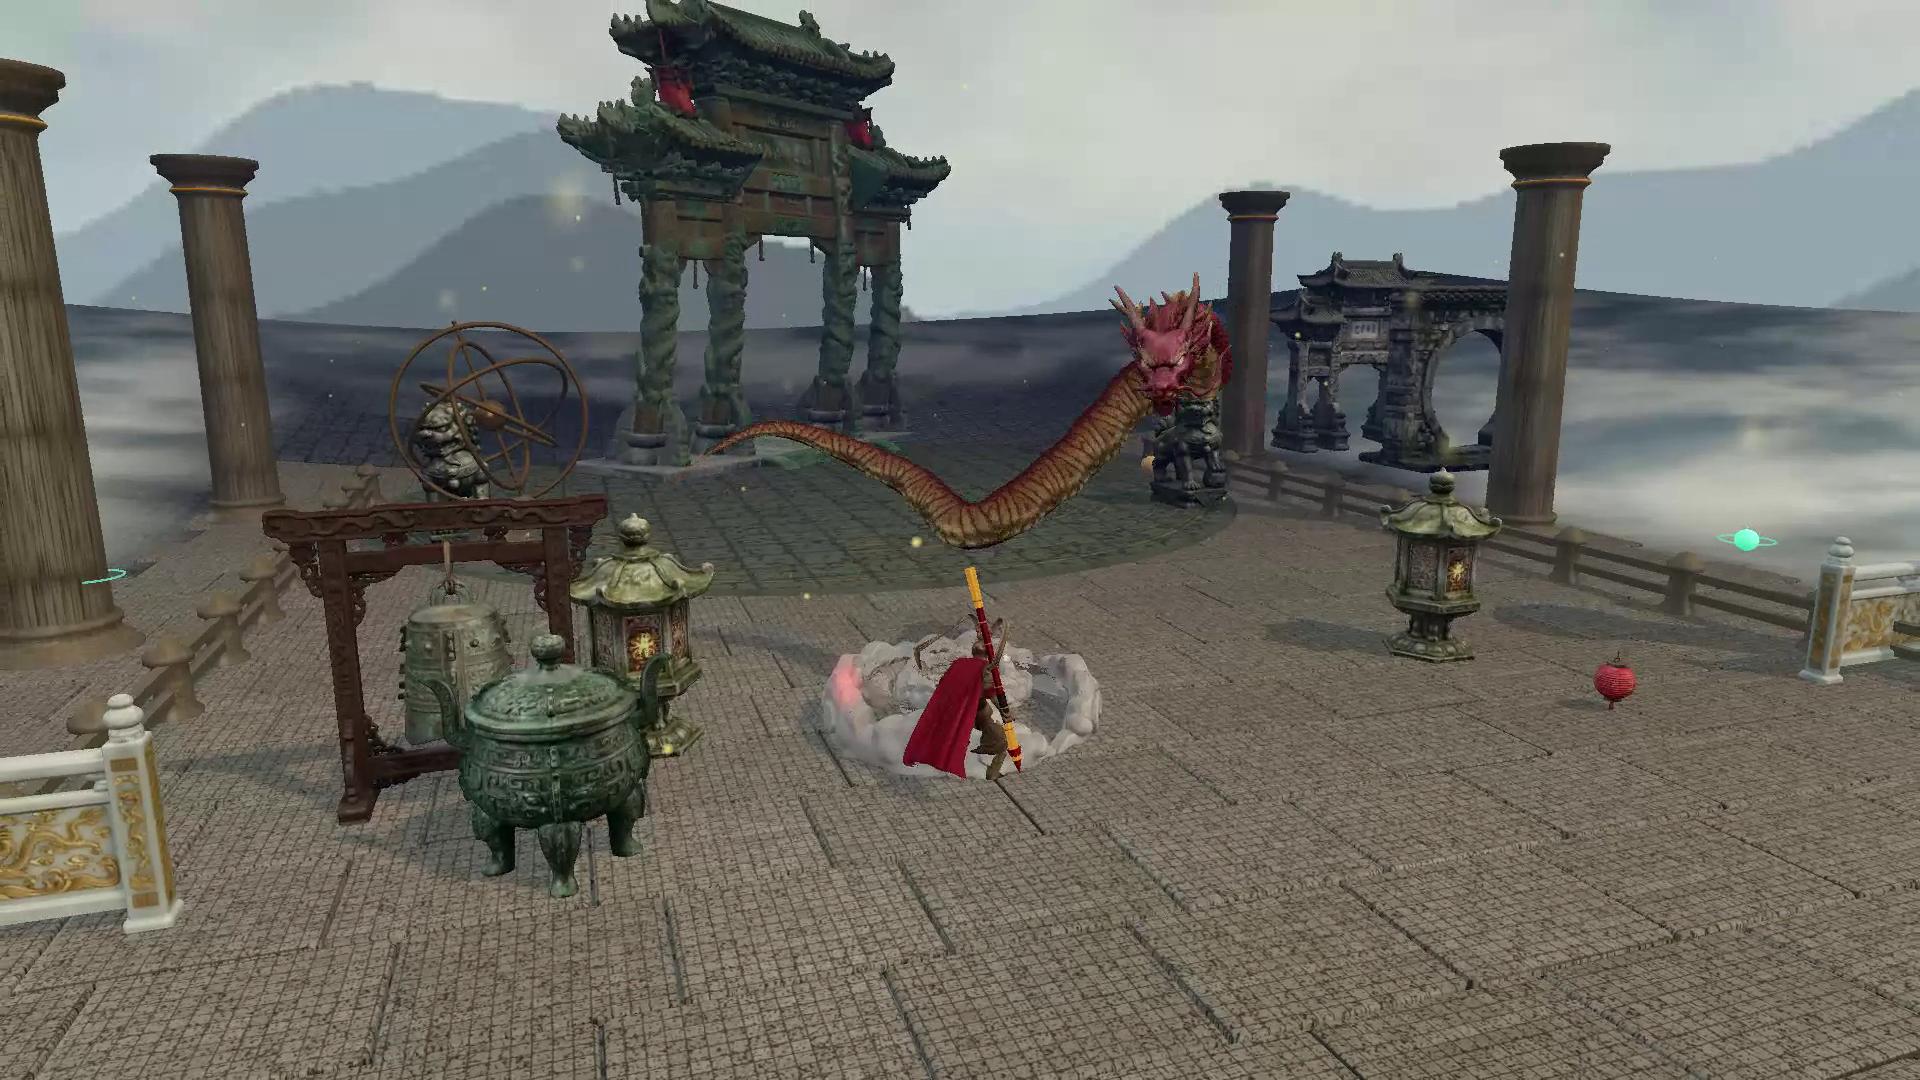
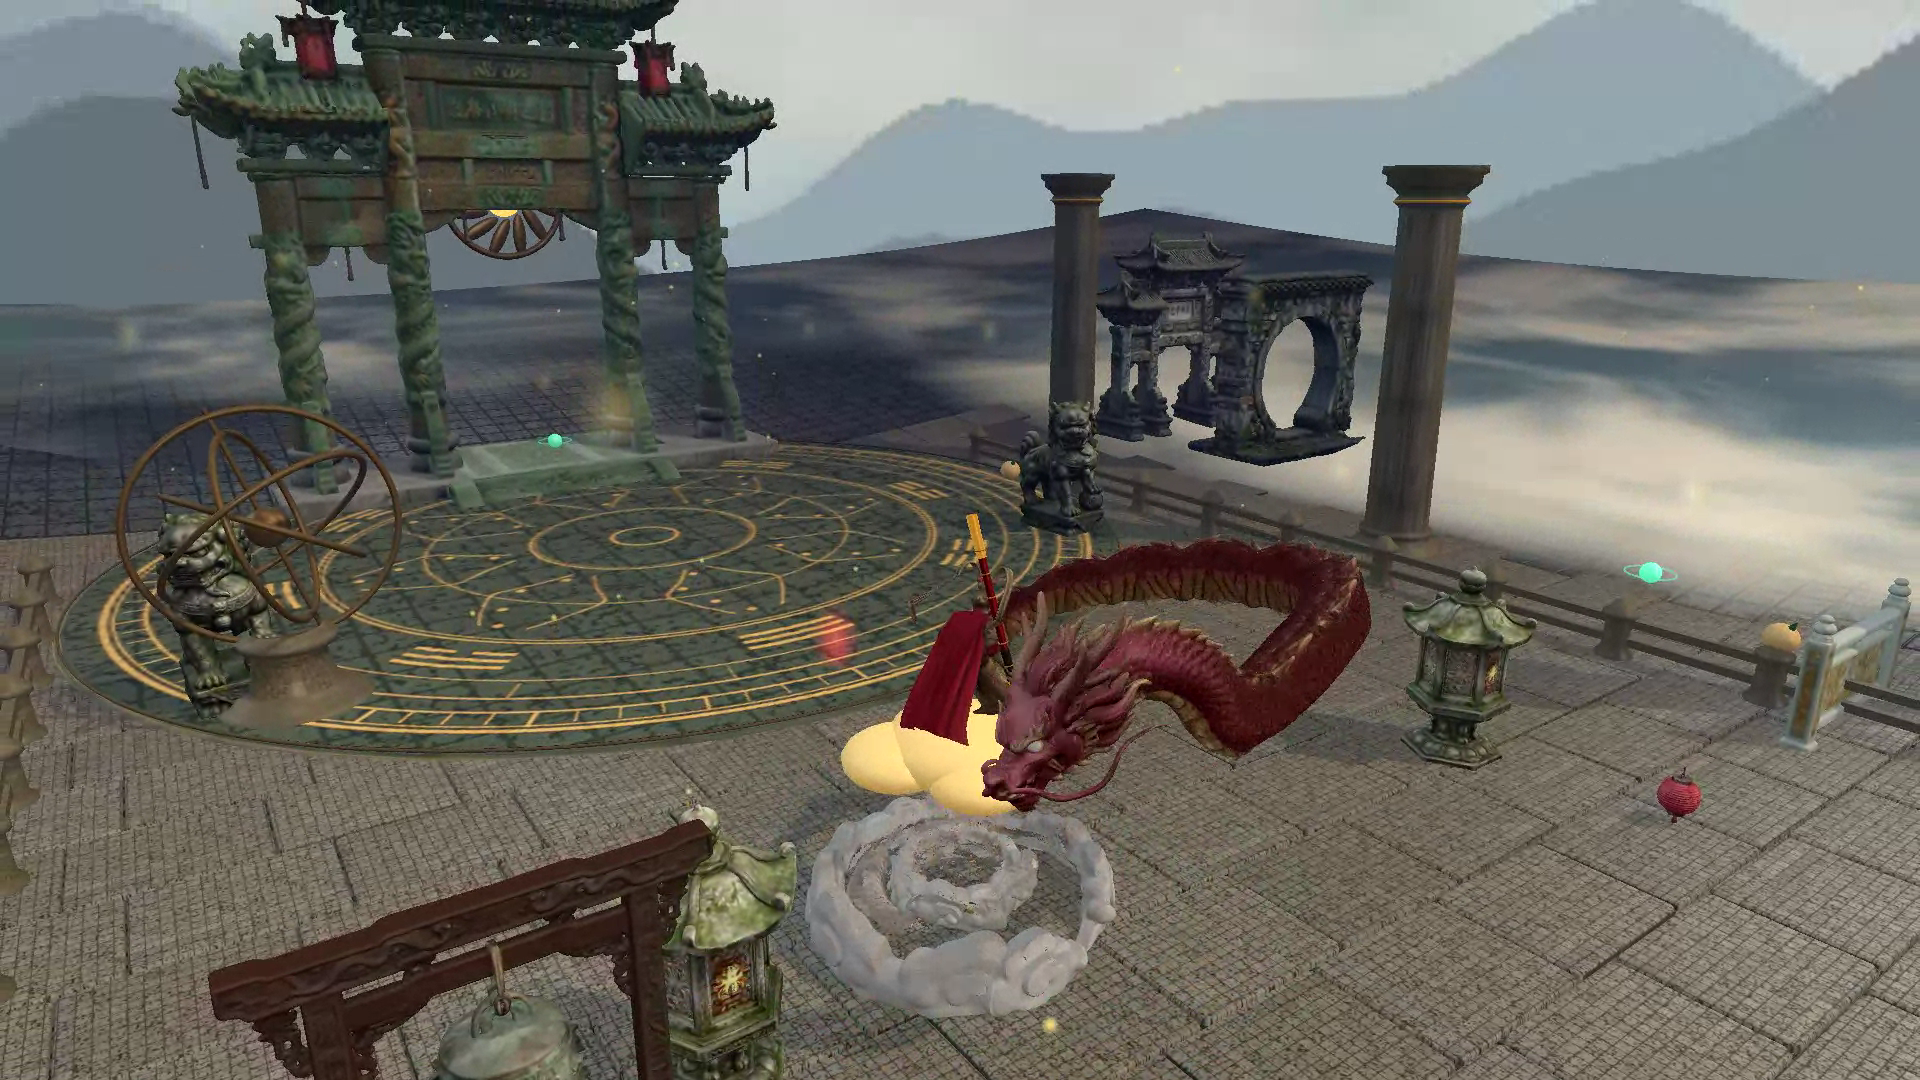
Sync gate playtest, attribution and editable report

diff --git a/source/report/build_wukong_report.py b/source/report/build_wukong_report.py
@@ -107,7 +107,7 @@ for i in range(3):
     d.text((x,710),["花果山 · 水帘苔岩","火焰山 · 立体火墙","南天门 · 龙息决战"][i],font=bold(25),fill=GOLD)
 para(d,(140,820),"人物：按待机姿态的可见蒙皮顶点校准悟空、狼妖与 Boss 尺度；不将骨架空节点计入包围盒。修复金箍棒拖尾在短轨迹/消退时越界。牛魔王通用命名动画经过姿态检查后单独映射。",body(27),WHITE,1320)
 para(d,(140,1080),"战斗：前摇锁定朝向、预警扇区对应攻击方向、落击后提供恢复窗口。狼妖短前摇，骸骨慢挥击，史莱姆压缩起跳；牛魔王冲锋、饕餮地面爆发、天龙扇形龙息。重劈落棍时同步结算命中和音效，接地时产生震波。",body(27),JADE,1320)
-para(d,(140,1350),"场景：保留既有 Aholo 道具与 CC0 地表/植被；缩小遮挡主路的道具。岩壁、桃枝和部分角色新增浅法线。南天门以铜纹星盘、浑仪、石栏衔接云海。烛龙一阶段盘云守门；半血后离开原地云座。飞行躯干延展自原雕刻颈段，保留原 UV、法线和材质。龙首领飞一圈，背尾跟随，回身吐息。嘴部、预警与伤害共用方向。三回仍存在资产风格差异，尚未通过外部审美评估。",body(27),WHITE,1320)
+para(d,(140,1350),"场景：保留既有 Aholo 道具与 CC0 地表/植被；缩小遮挡主路的道具。岩壁、桃枝和部分角色新增浅法线。南天门山门固定于石台，龙升空时悬镜转动，云流分开，台面铜纹显光。颈背和腹甲沿原雕刻同一截面拼接，腰腹的侧摆向尾尖传播。回首吐息沿龙口锁定方向结算。三回仍存在资产风格差异，尚未通过外部审美评估。",body(27),WHITE,1320)
 para(d,(140,1630),"工程：停用并移除 Spark 运行时导入；第一回复用标题页场景；道具分帧加载、章内共享解析与 GPU 资源。释放粒子、Sprite、骨骼、灵蕴、分身、残影、命中与龙息特效；旧章节异步结果不能回流。",body(26),DIM,1320)
 footer(d,6); pages.append(im)
 

diff --git a/source/docs/DRAGON_FLIGHT_QA.md b/source/docs/DRAGON_FLIGHT_QA.md
@@ -2,6 +2,8 @@
 
 从游戏原入口点击披挂上阵，通过两回六根抉择进入南天门。用棍击打到半血后停手，观察空云座、龙首绕行、背尾追随、回首和首个吐息。普通玩家录像使用游戏自带镜头；对照录像仅在绘制时使用固定的世界坐标 (8, 5.8, 15)，看向 (0, 2, 2.6)，垂直视场角 46°。两次战斗独立进行，没有跳关或写入血量。
 
-1920 × 1080 的一次公网普通镜头录制中，从半血前 0.3 秒至首个吐息后 0.5 秒，浏览器动画帧间隔共 1226 个，P95 为 10.0 ms，最大 17.8 ms。实际渲染材质检查：一阶段烛龙、二阶段龙首与飞行脊背引用同一材质实例及颜色、粗糙度和金属度贴图。吐息瞬间龙口水平轴与伤害轴差 0°；实际绘制的扇焰与预警中心线相差小于 0.001°，起点的水平距离小于 0.001 世界单位，扇区半径为 10。记录限于本机本次过渡窗口。
+1920 × 1080 的一次公网普通镜头录制中，从半血前 0.3 秒至首个吐息后 0.5 秒，浏览器动画帧间隔共 1229 个，P95 为 9.2 ms，最大 9.4 ms。实际渲染材质检查：一阶段烛龙、二阶段龙首与飞行脊背引用同一材质实例及颜色、粗糙度和金属度贴图。吐息瞬间龙口水平轴与伤害轴差 0°；实际绘制的扇焰与预警中心线相差小于 0.001°，起点的水平距离小于 0.001 世界单位，扇区半径为 10。记录限于本机本次过渡窗口。
 
 可用浏览器 Performance 面板观察 wukong-dragon-rise 和 wukong-dragon-breath。伤害方向为锁定的 attackYaw；龙口坐标来自原雕刻的嘴尖顶点，地面警戒起点取其水平投影。
+
+颈部烘焙检查：运行 python3 scripts/bake_dragon_flight.py，截面两侧 245 个独立位置／法线／UV 组合逐一相等。腾空时检查腰腹侧摆传向尾尖、门下悬镜转动、石台铜纹逐渐显光，回身时显光回落。

diff --git a/source/submission/README_WUKONG_提交说明.md b/source/submission/README_WUKONG_提交说明.md
@@ -56,3 +56,5 @@ https://minusplus2025.github.io/wukong-game
 - 项目源代码：https://github.com/MinusPlus2025/wukong-game/tree/main/source
 
 三回使用分章天空与统一的材质光照。南天门以盘云烛龙守门，半血时龙身离开云座；龙首领飞一圈，背脊和尾尖按弧长跟随，再回身锁定悟空吐息。云座留在起飞处。飞行体节复用原雕刻颈段的 UV、法线与材质，回头时颈根随头部转动。南天门设石质星盘、铜纹浑仪与透空石栏。地面预警与伤害扇区从龙口的地面投影起算。
+
+南天门石台采用分层石沿与铜收边。半血腾空时门下铜镜转动、云海向外分流、星盘嵌纹显光，回身瞄准时光效回落。头颈从同一批原雕刻三角形裁切，烘焙时逐个核对接缝位置、UV 和法线。

diff --git a/source/docs/ASSETS_CC0.md b/source/docs/ASSETS_CC0.md
@@ -18,3 +18,5 @@ No new third-party assets. Existing Aholo and CC0 assets retained. Water strands
 南天门优先载入项目已有 Aholo 烛龙。新增浅法线派生自项目原贴图，三回天空由离线脚本生成。
 
 凌霄天龙飞行形态沿用项目 Aholo 烛龙的龙首、云座和原贴图。飞行体节从同一 GLB 的颈段截取，保留原顶点法线、UV、颜色及金属度/粗糙度贴图。scripts/bake_dragon_flight.py 从原 GLB 重建面片掩码和颈段。南天门星盘使用既有大理石底图，铜嵌纹、浑仪与石栏由项目原创生成；烘焙脚本为 scripts/bake_celestial_dial.py。
+
+南天门悬镜、石台线脚及云流着色由项目生成。dragon-flight-seam.mask 与 dragon-flight-seam.bin 由原烛龙模型派生，包含颈段和与其配对的头侧截面边缘。
